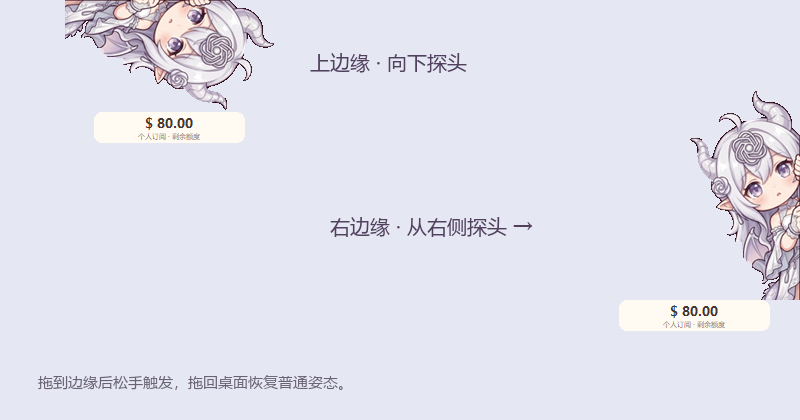
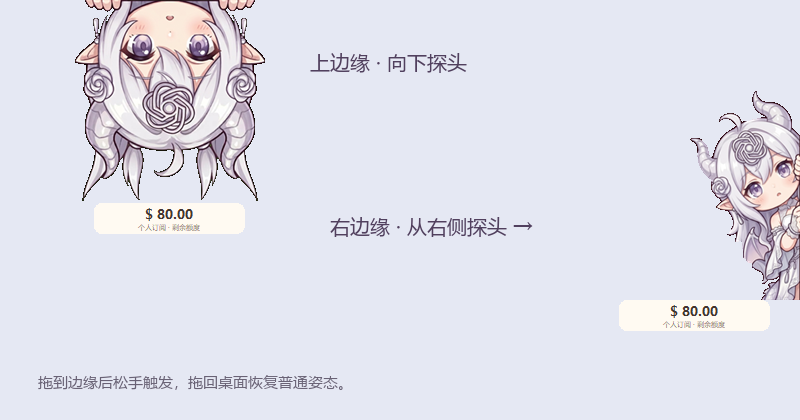
Replace top-edge pose with dedicated Gemini artwork

Changed region(s): [[0.0625, 0.0, 0.3438, 0.5571], [0.3125, 0.4333, 0.3438, 0.4643]]

diff --git a/定制说明.md b/定制说明.md
@@ -6,11 +6,13 @@
 站立为待机；魔法为额度刷新中；点击是点击反馈；甜点是已登录且刷新成功的反馈；拖动是拖拽中；睡觉在 90 秒没有操作后出现。点击、甜点反馈会短暂显示，刷新和拖拽状态优先。
 
 修改了桌宠绘制、状态切换、窗口尺寸、名称和图标。额度查询、登录、订阅、刷新设置等逻辑沿用原项目。
-六张姿态图已嵌入 `LMServicePet.exe`，安装包也附有 `pose-*.png`、`dragon-girl.png` 和 `dragon-girl.ico`，便于以后继续调整。
+八张姿态图已嵌入 `LMServicePet.exe`，安装包也附有 `pose-*.png`、`dragon-girl.png` 和 `dragon-girl.ico`，便于以后继续调整。
 桌面和开机启动快捷方式使用单独的龙娘头像图标，小尺寸下也能辨认。
 新安装默认大小为 75%，已有安装保留保存的大小设置。`make_icon.py` 可用 Pillow 从 `portrait-source.png` 重新生成图标。
 
 新增用户提供的偷看图透明素材：贴近桌面工作区上边缘或右边缘后松手，会吸附并偷看；拖离边缘恢复普通姿态。靠边状态可点击查看额度，位置与靠边方向会记住，支持多显示器。额度标签放在探头下方，角色与标签透明轮廓不产生紫色杂边。
+
+上边缘已改为通过 Gemini Pro 网页生成的专用倒挂姿态，双手抓握水平屏幕边缘，保留银白发、紫眼、龙角及交织头饰。素材经补全发梢、去除额外龙角、透明处理和顶部裁切对齐；右边缘继续使用原侧面偷看图。
 
 安装方法：完整解压 Windows x64 包后运行 `安装并启动.cmd`。原来的设置与登录会话保留。
 来源：https://github.com/Jerryren5268/token_quantity_monitor
